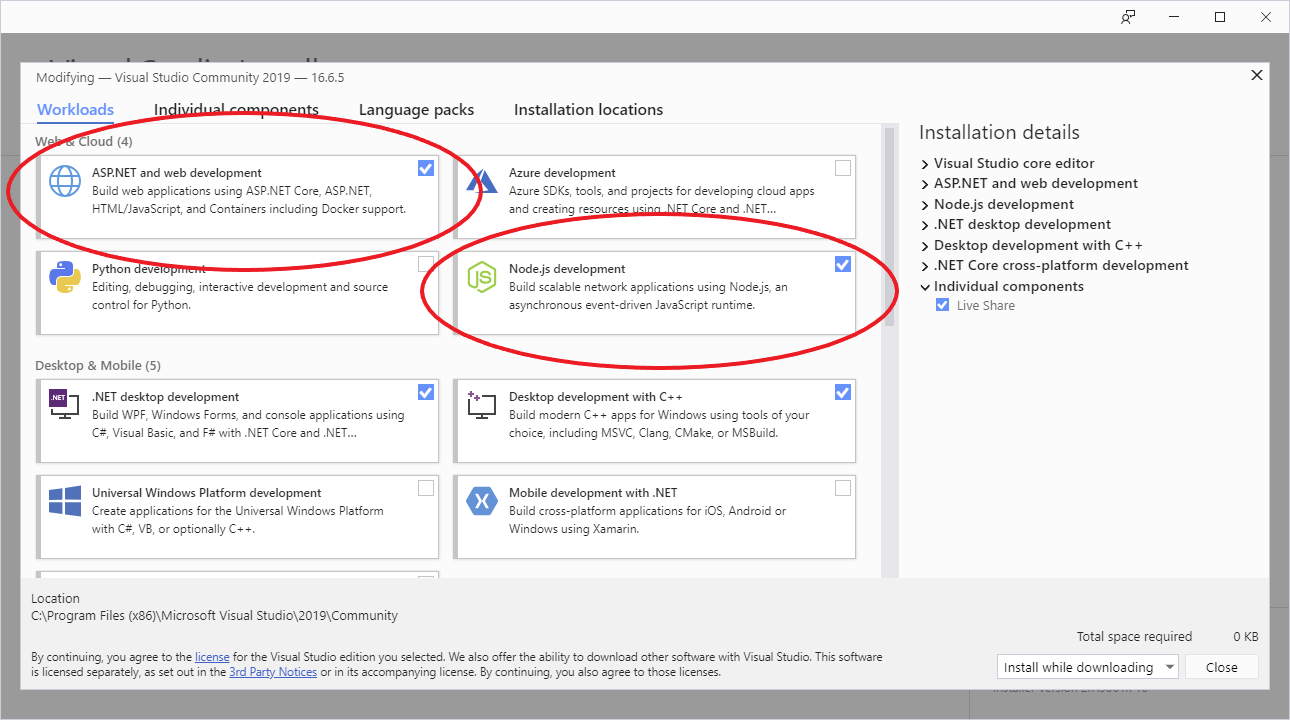
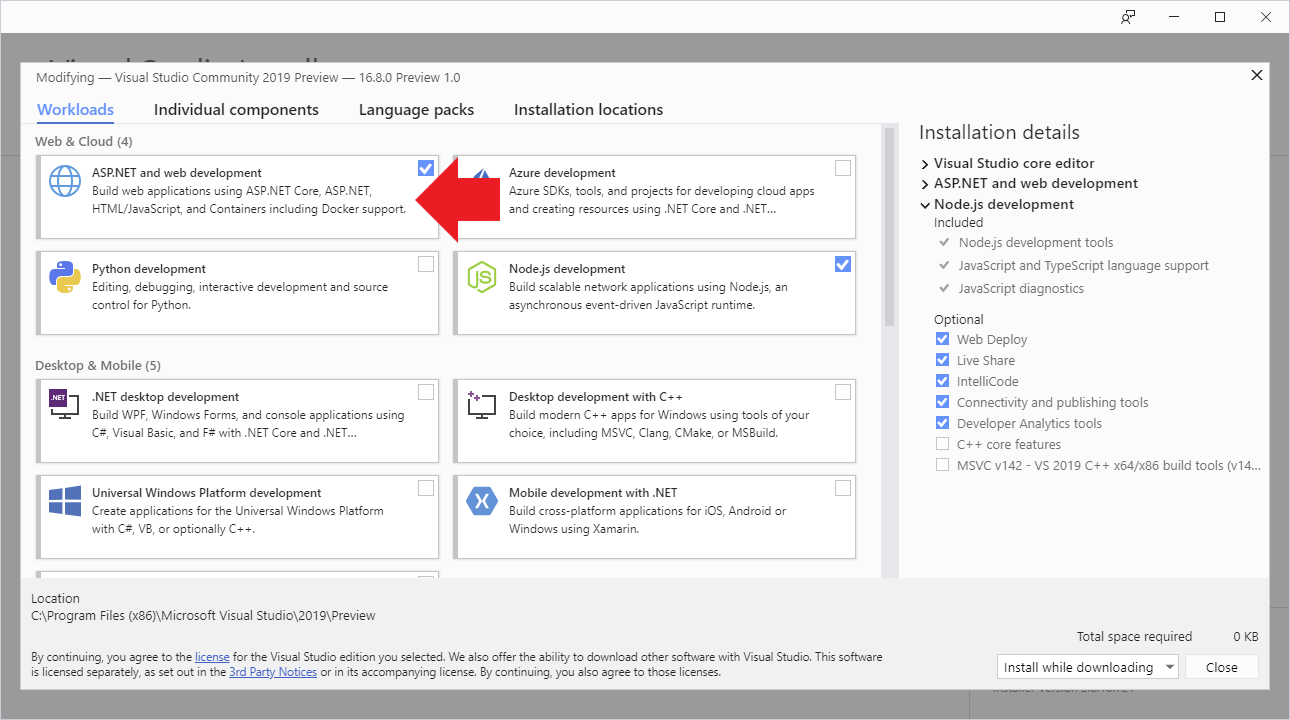
DocumentEnvironment.md updated

diff --git a/articles/DevelopmentEnvironment.md b/articles/DevelopmentEnvironment.md
@@ -8,38 +8,32 @@ We have developed Blazor MDC using Visual Studio 2019 on Windows, and have not t
 
 ## Forking the repos
 
-- For the full development environmment you need to for two repositories. These are BlazorMdc & BlazorMdcWebsite. See the section below labeled 'GitHub Actions' for an explanantion of the second repository requirement.
-- You can fork Blazor MDC from https://github.com/BlazorMdc/BlazorMdc and BlazorMdcWebsite from https://github.com/BlazorMdc/BlazorMdcWebSite. If you intend to submit pull requests please note that we use a`main` branch and accept feature branches created from `main`. PRs are only made to the BlazorMdc repository.
-- The repo has Github Actions for `main`. In your forked repo, [`GithubActionsDevelop`](https://github.com/BlazorMdc/BlazorMdc/blob/develop/.github/workflows/GithubActionsMainWIP.yml) will attempt to publish the documentation to your GitHub pages and the website to the forked repo BlazorMdcWebsite GitHub pages:
-  - If you want this to publish to `<repository owner>/github.io/BlazorMdc`, you will need to set up a Personal Access Token with write access to your repos - PATS are set up by clicking your icon at the top right on GitHub, then Settings and Developer Settings in the navigation menu to the left. <<SIMON - NEED IMAGES>>
+- The full development environmment is in the Blazor MDC GitHub repository that you can fork from https://github.com/BlazorMdc/BlazorMdc. If you intend to submit pull requests please note that we use a`main` branch and accept feature branches created from `main`.
+- The repo has Github Actions for `main`. In your forked repo, [`GithubActionsMainWIP`](https://github.com/BlazorMdc/BlazorMdc/blob/develop/.github/workflows/GithubActionsMainWIP.yml) will attempt to publish the documentation and this website to your GitHub pages and the website to the forked repo GitHub pages:
+  - If you want this to publish to `<repository owner>/github.io/BlazorMdc`, you will need to set up a Personal Access Token with write access to your repos - PATS are set up by clicking your icon at the top right on GitHub, then Settings and Developer Settings in the navigation menu to the left.
   <img src="../images/gh-account-settings-1.png" alt="GitHub Account Settings"></img>
   <img src="../images/gh-account-settings-2.png" alt="GitHub Account Settings"></img>
   <img src="../images/gh-account-settings-3.png" alt="GitHub Account Settings"></img>
   - Next go to the Settings of your forked repo and add a secret called "GH_PAT" using the contents of the PAT that you created in the previous step.
-<<SIMON - NEED IMAGE>>
   <img src="../images/gh-account-settings-4.png" alt="GitHub Account Settings"></img>
   - Now go to the main settings for your forked repo and scroll down until the "GitHub Pages" section. Select the "gh-pages branch" as the Source and click the Theme button - you *must* select a theme on the next page.
-<<SIMON - NEED IMAGE>>
   <img src="../images/gh-account-settings-5.png" alt="GitHub Account Settings"></img>
   - The docs should now publish next time you push to your `develop` branch on GitHub.
 
 ## Configuring the development environment
 
 - To build the Blazor project you need to be using the latest preview version of Visual Studio 2019. This can be found at [https://visualstudio.microsoft.com/vs/preview/](https://visualstudio.microsoft.com/vs/preview/). The Community Edition is sufficient. During the installation you must include the "ASP.NET and web development" Workload using Visual Studio Installer.:
-<<SIMON - NEED IMAGE>>
-    <img src="../images/vs-config.png" alt="Visual Studio Workloads"></img>
+  <img src="../images/vs-config.png" alt="Visual Studio Workloads"></img>
 - Blazor MDC uses SASS for styling and uses Material Components Web SASS mixins. You will also need to install "Docker". Docker for Windows can be found at [https://docs.docker.com/docker-for-windows/install/](https://docs.docker.com/docker-for-windows/install/). Docker for Mac can be found at [https://docs.docker.com/docker-for-mac/install/](https://docs.docker.com/docker-for-mac/install/). Docker will be responsible for using npm to build and minify resources from within Docker virtual images.  Note that npm packages are  *voluminous* and running the build will download over 160MB of data in the Docker directory.
 - There are some Visual Studio extensions that you need or may want:
   - We like Markdown Editor, which will help you improve this page.
-<<SIMON - NEED IMAGE>>
-   <img src="../images/vs-extensions.png" alt="Visual Studio Extensions"></img>
+    <img src="../images/vs-extensions.png" alt="Visual Studio Extensions"></img>
 
 ## CI and Release GitHub Action workflows
 
-These workflows are responsible for publishing three artifacts:
-* The BlazorMdc DocFx pages in the BlazorMdc repository gh-pages branch.
+These workflows are responsible for publishing two artifacts:
+* The BlazorMdc DocFx pages in the BlazorMdc project, amalgamated with the BlazorMdcWebsite.WebAssembly published output to your gh-pages branch.
 * The BlazorMdc NuGet package hosted as a GitHub package (Release) or a NuGet.org (CI).
-* The BlazorMdc Website in the BlazorMdcWebsite repository gh-pages branch.
 
 ### WIP Workflow
 
